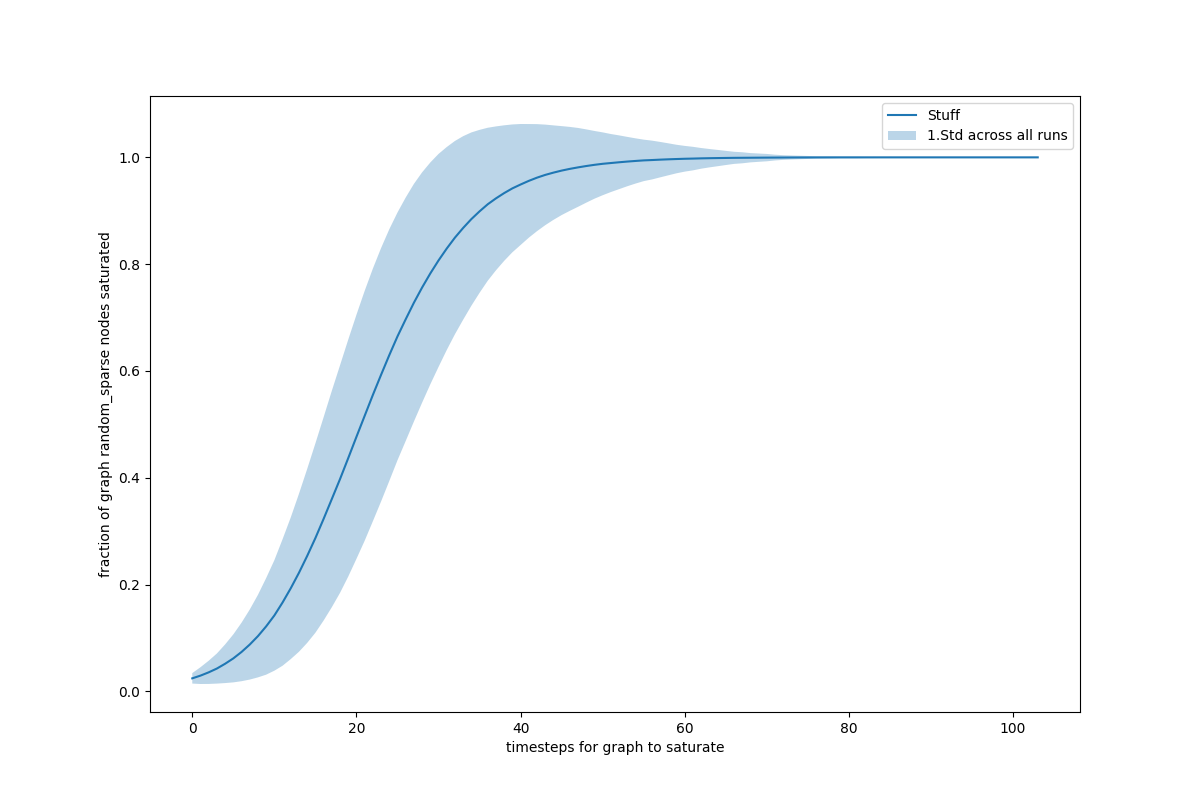
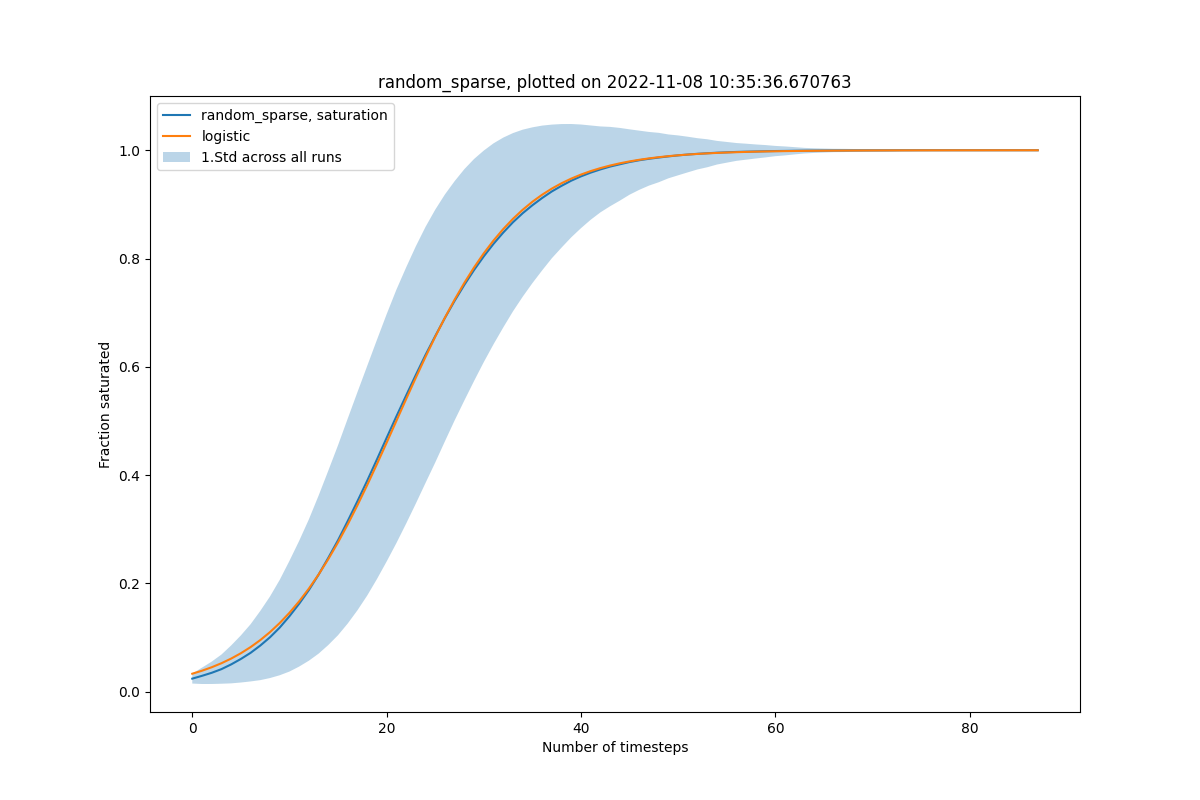
added new graph structures using the class abstract

diff --git a/structure_generation/adj_matrix_gen.py b/structure_generation/adj_matrix_gen.py
@@ -28,33 +28,6 @@ class GraphGenerator(abc.ABC):
         except:
             assert False
 
-
-class FullyConnected(GraphGenerator):
-    name = "fully_connected"
-
-    def adj_matrix(self):
-        return nx.to_numpy_array(nx.complete_graph(self.num_nodes))
-
-
-class RandomSparse(GraphGenerator):
-    name = "random_sparse"
-
-    def adj_matrix(self):
-        num_edges = 5
-        """
-        Generate a random num_node by num_node adjacency matrix that is seeded with
-        num_timestep_edges connections in an otherwise sparse graph.
-        """
-        uninfected_graph = np.zeros((self.num_nodes, self.num_nodes))
-        for _ in range(num_edges):
-            random_i, random_j = random.randint(0, self.num_nodes - 1), random.randint(
-                0, self.num_nodes - 1
-            )
-            uninfected_graph[random_i][random_j] = 1
-
-        return uninfected_graph
-
-
 class DebugStatic(GraphGenerator):
     name = "debug_static"
 
@@ -84,6 +57,38 @@ class CycleGraph(GraphGenerator):
         return nx.to_numpy_array(graph)
 
 
+class RandomSparse(GraphGenerator):
+    def __init__(self, structure_name, num_nodes):
+        super(RandomSparse, self).__init__(structure_name= structure_name, num_nodes = num_nodes)
+        self.structure_name = structure_name
+
+    @property
+    def adj_matrix(self, num_edges : int = 5):
+        """
+        Generate a random num_node by num_node adjacency matrix that is seeded with
+        num_timestep_edges connections in an otherwise sparse graph.
+        """
+        uninfected_graph = np.zeros((self.num_nodes, self.num_nodes))
+        for _ in range(num_edges):
+            random_i, random_j = random.randint(0, self.num_nodes - 1), random.randint(
+                0, self.num_nodes - 1
+            )
+            uninfected_graph[random_i][random_j] = 1
+
+        return uninfected_graph
+
+
+class FullyConnected(GraphGenerator):
+    def __init__(self, num_nodes: int, structure_name : str = "fully_connected"): 
+        super(FullyConnected, self).__init__(structure_name= structure_name, num_nodes = num_nodes)
+        self.structure_name = structure_name
+
+    @property
+    def adj_matrix(self):
+        return nx.to_numpy_array(nx.complete_graph(self.num_nodes))
+
+
+
 class GraphStructureGenerator(object):
     """ """
 
@@ -96,10 +101,10 @@ class GraphStructureGenerator(object):
     def adj_matrix(self):
         """ """
         graph_mapping = {
-            "fully_connected": self.generate_fully_connected_graph,
-            "random_sparse": self.generate_sparse_graph,
+            "fully_connected": FullyConnected(structure_name= "fully_connected", num_nodes= self.num_nodes),
+            "random_sparse":  RandomSparse(structure_name= "random_sparse", num_nodes= self.num_nodes),
         }
-        return graph_mapping[self.structure_name]()
+        return graph_mapping[self.structure_name].adj_matrix
 
     def generate_fully_connected_graph(self):
         """ """
@@ -118,3 +123,7 @@ class GraphStructureGenerator(object):
             uninfected_graph[random_i][random_j] = 1
 
         return uninfected_graph
+
+
+#if __name__ == "__main__":
+#    x = RandomSparse(structure_name= "random_sparse", num_nodes= 50)

diff --git a/graph_structure/erdos_graph.py b/graph_structure/erdos_graph.py
@@ -21,6 +21,7 @@ class ErdosGraphSimulator(object):
         self.num_nodes = num_nodes
         self.num_agents = num_agents
         self.num_timestep_edges = num_timestep_edges
+        self.structure_name = structure_name
 
         self.graph_generator = GraphStructureGenerator(
             structure_name=structure_name, num_nodes=num_nodes
@@ -66,11 +67,10 @@ class ErdosGraphSimulator(object):
         ):
             timesteps_to_full_saturation += 1
             current_infection_matrix = infection_matrix_list[-1]
-
-            # adj_matrix = self.generate_adj_matrix()
-            adj_matrix = self.graph_generator.adj_matrix
+            
+            #TODO fix me so the interface is constant
+            adj_matrix = self.graph_generator.adj_matrix() if self.structure_name == "fully_connected" else self.graph_generator.adj_matrix
             nodepair_list = np.dstack(np.where(adj_matrix == 1))[0]
-
             for pair in nodepair_list:
                 if (
                     current_infection_matrix[pair[0]]

diff --git a/main.py b/main.py
@@ -21,7 +21,7 @@ def simulate_saturation(params) -> Tuple[List[float], List[float]]:
         structure_name=structure_name,
     )
     _, iterations, fraction_infected = x.infect_till_saturation(
-        infection_probability=0.002
+        infection_probability=1
     )
     return iterations, fraction_infected
 
